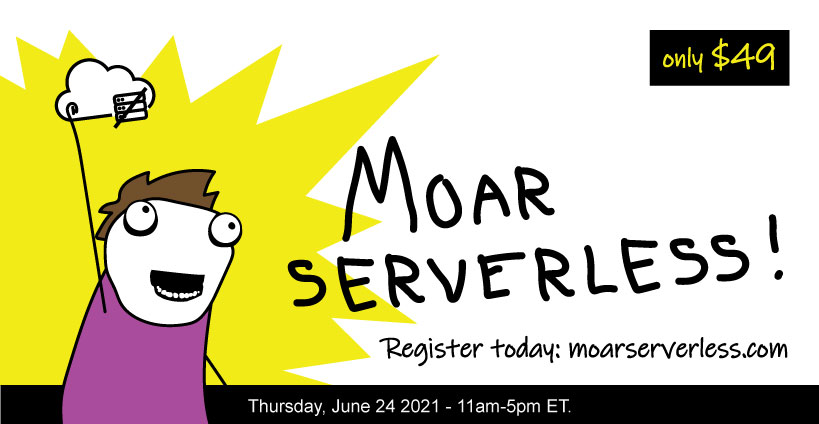
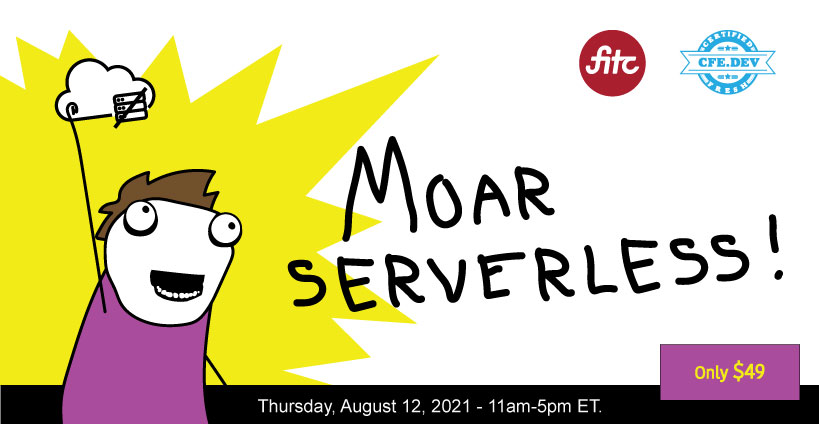
updated image

Changed region(s): [[0.4579, 0.7972, 0.9768, 0.9505], [0.7021, 0.0613, 0.9768, 0.2453], [0.3053, 0.9198, 0.7326, 0.9811]]

diff --git a/content/events/moar-serverless-2021.md b/content/events/moar-serverless-2021.md
@@ -5,7 +5,7 @@ end_date: 2021-08-12T17:00:00-04:00
 days: 1
 cost: $39
 ticket_url: https://moar_serverless.eventbrite.ca
-homepage_banner: MoarServerless-EarlyBird.jpg
+homepage_banner: MoarServerless-062421.jpg
 description: Moar Serverless is a 1-day conference exploring how real-world applications are built leveraging serverless and microservice architectures.
 short_desc: Moar Serverless is a 1-day conference exploring how real-world applications are built leveraging serverless.
 draft: false
